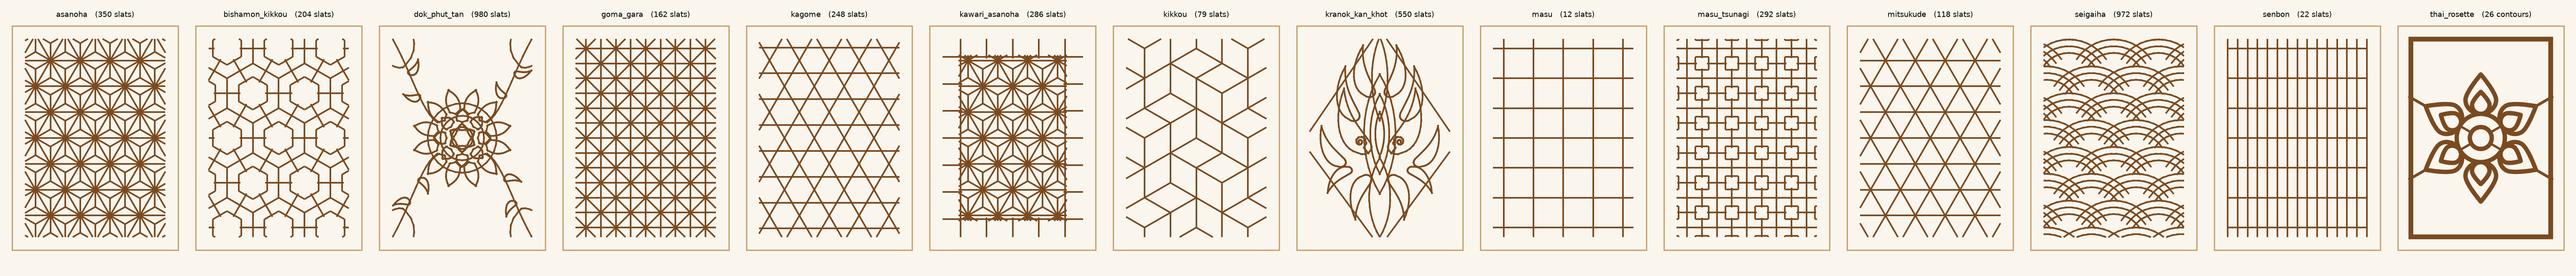
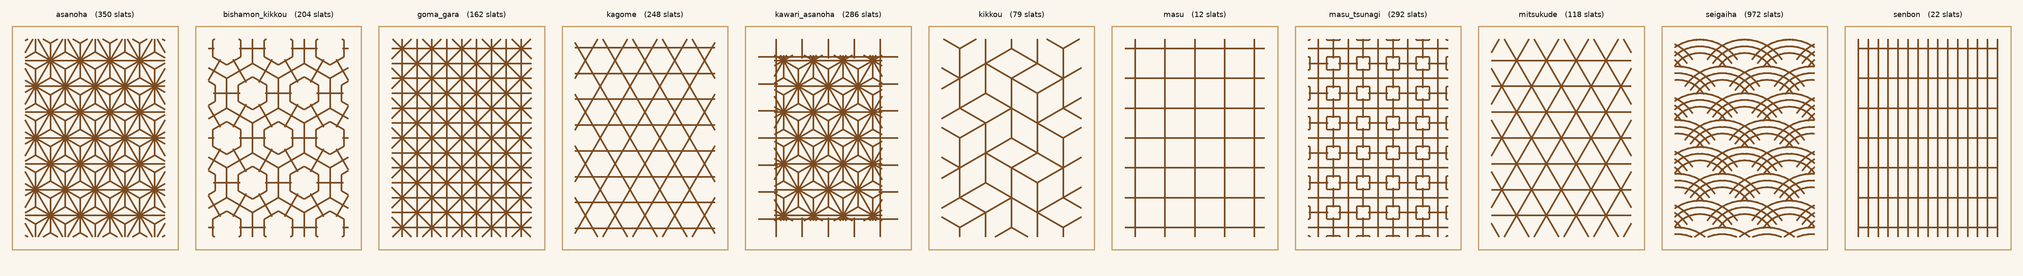
feat: disable the Lai Thai pattern family
Kranok Kan Khot, Dok Phut Tan and Thai Rosette stop being offered: gone from
the configurator's picker, from --pattern and from --all. Classic drops from
fourteen patterns to eleven; Modern was already eleven and is untouched.

They are switched off rather than deleted. thai_rosette is the only region
pattern, so removing the family would take PATTERN_REGIONS, extrude_region,
is_region, _write_region_svg and the whole imported-artwork extension point
with it -- roughly 1,080 source lines and 2.6 MB of artwork and STLs. All of
that stays and keeps compiling; one flag per implementation is the whole
switch, and flipping both back to true is the whole re-enable.

The one thing that needed care: metadata must keep answering for a hidden
pattern. PATTERN_FAMILY and PATTERN_CAP_SAFE were built from patternNames() in
the browser, so filtering that list would have made PATTERN_FAMILY return
undefined for a Lai Thai id -- every `!== 'kumiko'` guard in the Modern path
would still pass, but for the wrong reason, and capPattern would stop falling
back to kikkou. So metadata now comes from allPatternNames() and selection from
patternNames(). Python already built both maps from PATTERNS + PATTERN_REGIONS
directly and needed no such split.

Two deviations from the plan, both toward keeping more coverage:

The plan said to drop the five Lai Thai entries from core.test.js's variations
list, reasoning they would fall back to asanoha and test nothing. That was
[…]

diff --git a/web/page.test.js b/web/page.test.js
@@ -166,25 +166,16 @@ function zipEntry(buf, wanted) {
   const meaning = await page.textContent('#sw-meaning');
   check(meaning.includes('Tortoiseshell'), 'pattern switch updates meaning', meaning.trim());
 
-  // family tabs: Lai Thai is a separate tab, and its patterns are hidden until picked
-  check(await page.$('button[data-pattern="kranok_kan_khot"]') === null,
-        'Lai Thai patterns hidden while the Kumiko tab is active');
-  const fams = await page.$$eval('.famtabs button', b => b.map(x => x.textContent));
-  check(fams.join(',') === 'Kumiko,Lai Thai', 'both family tabs present', fams.join(','));
-  await page.click('.famtabs button[data-family="laithai"]');
-  await page.waitForTimeout(200);
-  check(await page.$('button[data-pattern="dok_phut_tan"]') !== null,
-        'Dok Phut Tan appears in the Lai Thai family');
-  await page.click('button[data-pattern="kranok_kan_khot"]');
-  await page.waitForTimeout(900);
-  const thai = await page.textContent('#sw-name');
-  check(thai.trim() === 'Kranok Kan Khot', 'Lai Thai tab selects the vine', thai.trim());
-  const meta = await page.textContent('#sw-meta');
-  check(/^550 slats/.test(meta.trim()), 'kranok slat count matches Python', meta.trim());
-  // the cap must still build (off the kikkou fallback) rather than block export
-  check(!(await page.isDisabled('#dl-all')), 'kranok still exports');
-  await page.click('.famtabs button[data-family="kumiko"]');
-  await page.waitForTimeout(200);
+  // Lai Thai is disabled: one family tab, and none of its three ids on offer
+  const fams = await page.$$eval('.famtabs button', b => b.map(x => x.textContent.trim()));
+  check(fams.join(',') === 'Kumiko', 'only the Kumiko family tab is offered', fams.join(','));
+  check(await page.$('button[data-family="laithai"]') === null,
+        'no Lai Thai family tab exists');
+  const hidden = await Promise.all(['kranok_kan_khot', 'dok_phut_tan', 'thai_rosette']
+    .map(id => page.$(`button[data-pattern="${id}"]`)));
+  check(hidden.every(h => h === null), 'no Lai Thai pattern button exists');
+  const offered = await page.$$eval('.styles button[data-pattern]', b => b.length);
+  check(offered === 11, 'eleven Kumiko patterns on offer', String(offered));
   await page.click('button[data-pattern="kikkou"]');
   await page.waitForTimeout(400);
 

diff --git a/web/index.html b/web/index.html
@@ -1394,11 +1394,24 @@ var Kumiko = (function () {
     thai_rosette: 'A four-way floral rosette — harmony, balance, and beauty radiating from a shared centre.'
   };
   var LAITHAI = ['kranok_kan_khot', 'dok_phut_tan', 'thai_rosette'];
-  function patternNames() {
+  /* The Lai Thai family is built and validated but not offered: it drops out of
+     the picker and out of the CLI the app echoes.  Everything else stays, so
+     flipping this back to true is the whole re-enable.  Must match
+     LAITHAI_ENABLED in kumiko_lamp.py. */
+  var LAITHAI_ENABLED = false;
+  /* Every registered pattern, offered or not.  Metadata is built from this, so
+     PATTERN_FAMILY still answers 'laithai' for a hidden pattern rather than
+     undefined -- otherwise the Modern guards would pass for the wrong reason. */
+  function allPatternNames() {
     return Object.keys(PATTERNS).concat(Object.keys(PATTERN_REGIONS));
   }
+  function patternNames() {
+    return allPatternNames().filter(function (n) {
+      return LAITHAI_ENABLED || LAITHAI.indexOf(n) < 0;
+    });
+  }
   var PATTERN_FAMILY = {};
-  patternNames().forEach(function (n) {
+  allPatternNames().forEach(function (n) {
     PATTERN_FAMILY[n] = LAITHAI.indexOf(n) >= 0 ? 'laithai' : 'kumiko';
   });
   var FAMILY_LABEL = { kumiko: 'Kumiko', laithai: 'Lai Thai' };
@@ -1409,7 +1422,7 @@ var Kumiko = (function () {
   var CAP_FALLBACK = 'kikkou';
   var CAP_UNSAFE = ['kranok_kan_khot', 'dok_phut_tan', 'thai_rosette'];
   var PATTERN_CAP_SAFE = {};
-  patternNames().forEach(function (n) {
+  allPatternNames().forEach(function (n) {
     PATTERN_CAP_SAFE[n] = CAP_UNSAFE.indexOf(n) < 0;
   });
   function capPattern(p) {
@@ -3084,7 +3097,8 @@ var Kumiko = (function () {
     DEFAULTS: DEFAULTS, HOLDER_PRESETS: HOLDER_PRESETS,
     PATTERNS: PATTERNS, PATTERN_LABEL: PATTERN_LABEL,
     PATTERN_REGIONS: PATTERN_REGIONS, isRegion: isRegion,
-    patternNames: patternNames,
+    patternNames: patternNames, allPatternNames: allPatternNames,
+    LAITHAI_ENABLED: LAITHAI_ENABLED,
     PATTERN_FAMILY: PATTERN_FAMILY, FAMILY_LABEL: FAMILY_LABEL,
     PATTERN_MEANING: PATTERN_MEANING,
     PATTERN_CAP_SAFE: PATTERN_CAP_SAFE, capPattern: capPattern,

diff --git a/web/core.test.js b/web/core.test.js
@@ -308,8 +308,20 @@ console.log('');
 console.log('region patterns');
 check(K.isRegion('thai_rosette'), 'thai_rosette is a region pattern');
 check(!K.isRegion('asanoha'), 'asanoha is not a region pattern');
-check(K.patternNames().length === 14, `14 selectable patterns`,
+/* Lai Thai is registered and still buildable, just not offered.  The metadata
+   must keep answering for it, or the Modern guards start passing because
+   PATTERN_FAMILY returns undefined rather than because it returns 'laithai'. */
+check(K.patternNames().length === 11, `11 selectable patterns`,
       String(K.patternNames().length));
+check(K.allPatternNames().length === 14, `14 registered patterns`,
+      String(K.allPatternNames().length));
+check(K.patternNames().every(n => K.PATTERN_FAMILY[n] === 'kumiko'),
+      'nothing Lai Thai is on offer');
+check(K.PATTERN_FAMILY.kranok_kan_khot === 'laithai' &&
+      K.PATTERN_FAMILY.thai_rosette === 'laithai',
+      'a hidden pattern still resolves its family');
+check(K.buildPanel(P, 'thai_rosette').region === true,
+      'a hidden pattern still builds when asked directly');
 {
   const cont = K.PATTERN_REGIONS.thai_rosette(P.openW, P.openH);
   check(cont.length === 26, `rosette contours ${cont.length}`, 'python 26');

diff --git a/kumiko_lamp.py b/kumiko_lamp.py
@@ -1357,10 +1357,25 @@ LAITHAI = {"kranok_kan_khot", "dok_phut_tan", "thai_rosette"}
 PATTERN_FAMILY = {name: "laithai" if name in LAITHAI else "kumiko"
                   for name in list(PATTERNS) + list(PATTERN_REGIONS)}
 
+# The Lai Thai family is built and validated but not offered: it drops out of
+# --pattern, out of --all, and out of the configurator.  Everything else stays
+# -- the generators, the baked contour table, tools/svg2pattern.py and the three
+# checked-in STLs -- so flipping this back to True is the whole re-enable.
+# thai_rosette is the only region pattern, which is why this is a switch rather
+# than a deletion: removing it would take PATTERN_REGIONS, extrude_region and
+# the imported-artwork extension point with it.
+LAITHAI_ENABLED = False
+
+
+def all_pattern_names():
+    """Every registered pattern, offered or not.  Metadata is built from this."""
+    return sorted(list(PATTERNS) + list(PATTERN_REGIONS))
+
 
 def pattern_names():
-    """Every selectable pattern id, segment and region alike."""
-    return sorted(list(PATTERNS) + list(PATTERN_REGIONS))
+    """The patterns actually on offer, segment and region alike."""
+    return [n for n in all_pattern_names()
+            if LAITHAI_ENABLED or n not in LAITHAI]
 
 
 def kumiko_pattern_names():

diff --git a/README.md b/README.md
@@ -36,8 +36,9 @@ parts. Classic's live-built lattices use a lighter representation — see
 ## Lantern styles
 
 **Classic** is the existing square lamp: four interchangeable panels slide between four
-posts, with separate feet, a grooved base and a removable top cap. It supports all fourteen
-patterns, optional diffusers, two-piece posts, cap screws, finials and reusable snap locks.
+posts, with separate feet, a grooved base and a removable top cap. It supports all eleven
+offered patterns, optional diffusers, two-piece posts, cap screws, finials and reusable
+snap locks.
 
 **Modern** is a hollow cylindrical base and a removable cylindrical shade. The reference
 preset uses a 100 mm shade diameter, a 100 mm base diameter, a 218 mm shade and a 90 mm
@@ -79,10 +80,9 @@ inside the shade if you want softer light.
 Swap in `panel_kikkou.stl`, `panel_mitsukude.stl`, `panel_kawari_asanoha.stl`,
 `panel_kagome.stl`, `panel_masu.stl`, `panel_masu_tsunagi.stl`, `panel_senbon.stl`,
 `panel_goma_gara.stl`,
-`panel_bishamon_kikkou.stl`, `panel_seigaiha.stl`, `panel_kranok_kan_khot.stl` or
-`panel_dok_phut_tan.stl` or `panel_thai_rosette.stl` for a different motif — all
-fourteen Classic panels are dimensionally identical
-and interchangeable. Roughly in order of open area: masu, kikkou and kranok are
+`panel_bishamon_kikkou.stl` or `panel_seigaiha.stl` for a different motif — all
+eleven Classic panels are dimensionally identical
+and interchangeable. Roughly in order of open area: masu and kikkou are
 the airiest, asanoha and goma-gara the densest.
 
 ### Modern
@@ -117,9 +117,28 @@ chords: finer is not better here (see CLAUDE.md).
 close-set vertical bars crossed by a rail every third bar. Senbon's bars run at a third of
 the pattern pitch, so the stock 28 mm gives a 9.3 mm spacing — fine enough to earn the
 "thousand sticks" of its name. At 12 and 22 slats they are the two cheapest panels to
-print, and Masu is the most open of the fourteen.
+print, and Masu is the most open of the eleven.
 
-Eleven are Japanese kumiko. The other three are Thai compositions. **Kranok Kan Khot**
+## The Lai Thai family is currently disabled
+
+Three Thai compositions — **Kranok Kan Khot**, **Dok Phut Tan** and **Thai Rosette** — are
+still in the repo and still build, but are **not offered**: they are absent from the
+configurator's pattern picker, from `--pattern`, and from `--all`. Their three
+`panel_*.stl` files and preview SVGs remain checked in, and stop being regenerated.
+
+To bring them back, set **both** flags to true and regenerate:
+
+```
+kumiko_lamp.py   LAITHAI_ENABLED = True
+web/index.html   var LAITHAI_ENABLED = true;
+```
+
+They are switched off rather than deleted because `thai_rosette` is the only *region*
+pattern, so removing the family would take `PATTERN_REGIONS`, `extrude_region` and the
+whole imported-artwork extension point with it. The descriptions below are kept for that
+reason.
+
+**Kranok Kan Khot**
 (กระหนกก้านขด) is a different kind of thing: not a repeating lattice but **one composition filling the
 whole panel** — a diamond medallion of Thai flame work, with a column of nested pointed
 lenses on the axis, a spike to the apex, and volutes at the waist throwing flames out along
@@ -368,7 +387,7 @@ Every dimension lives in the `Params` dataclass at the top of `kumiko_lamp.py`. 
 worth reaching for are on the command line:
 
 ```bash
-python3 kumiko_lamp.py --all                    # Classic: all 14 patterns + both post styles
+python3 kumiko_lamp.py --all                    # Classic: all 11 offered patterns + both post styles
 python3 kumiko_lamp.py --style classic          # explicit form of the unchanged default
 python3 kumiko_lamp.py --pattern kikkou         # one Classic pattern's part set
 python3 kumiko_lamp.py --grid 20                # finer lattice
@@ -463,7 +482,7 @@ strict mesh is checked separately against the Python volume.
 The configurator is checked the same way, headlessly: its geometry core runs in Node and
 is compared against the Python generator's measured volumes (`base` and `leg` match to
 0.00%, `post` 0.06%, ring 0.25%) and against its pattern segment counts, slat for slat,
-across all thirteen segment patterns. Modern adds wrapped-seam, thread, volume and
+across all eleven offered segment patterns. Modern adds wrapped-seam, thread, volume and
 placement comparisons across its eleven supported Kumiko patterns. The page
 itself is then driven in headless Chromium — sliders, pattern switches, bed-fit warnings,
 a deliberately unassemblable configuration to confirm it blocks rather than exports,

diff --git a/CLAUDE.md b/CLAUDE.md
@@ -84,7 +84,7 @@ relabels the same `panelT` slider for the active style and its CLI echo must emi
 `--style {classic,modern}` is the only
 style selector. `--style modern --all` emits one Modern base, the stable adapter ring, all
 eleven Kumiko shades and the non-printable assembly preview; Classic `--all` continues to
-emit all fourteen patterns and both post styles.
+emit all eleven offered patterns and both post styles.
 
 The reference Modern geometry is a Ø100 × 218 mm shade over a Ø100 × 90 mm hollow base.
 Shade and base radii are separate derived values: the rings, lattice and both halves of the
@@ -253,6 +253,19 @@ Write `f(w, h, s) -> [((x0,y0),(x1,y1)), ...]` centred on the origin and registe
   Faceting stops mattering long before that limit — at 14 chords the sagitta is already
   under 0.1 mm, a quarter of a nozzle — so nothing is lost by staying coarse. `_stroke`
   cannot see this; it is a property of the sampling.
+
+**The Lai Thai family is currently disabled** by `LAITHAI_ENABLED` — `kumiko_lamp.py`
+beside `LAITHAI`, and the same flag in the core. Set both to true to re-enable; they must
+agree. It is a switch rather than a deletion because `thai_rosette` is the only *region*
+pattern, so removing the family would take `PATTERN_REGIONS`, `extrude_region` and the
+imported-artwork extension point with it.
+
+**Metadata is built from `all_pattern_names()` / `allPatternNames()`, selection from
+`pattern_names()` / `patternNames()`** — and that split is load-bearing. Point
+`PATTERN_FAMILY` or `PATTERN_CAP_SAFE` at the filtered list and a hidden pattern resolves
+to `undefined`, which makes every `PATTERN_FAMILY[p] !== 'kumiko'` guard pass for the wrong
+reason and `capPattern` stop falling back. Python already builds both maps from
+`PATTERNS + PATTERN_REGIONS` directly, so only the browser needed the split.
 
 Patterns also carry metadata in both files: `PATTERN_FAMILY` (`kumiko` | `laithai` — drives
 the tab strip in the rail, which is generated, so a new family needs no UI code) and
